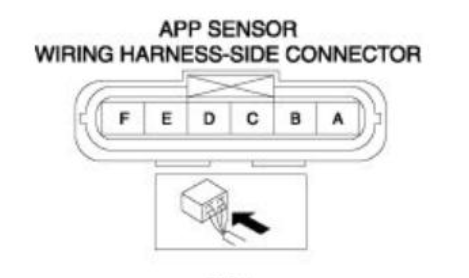
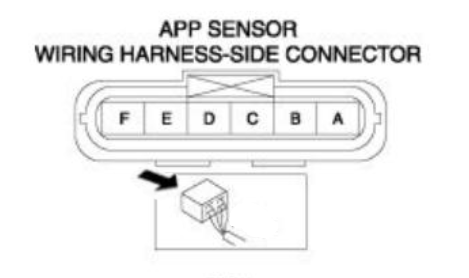
Add pins plug arrow; add gitignore

Changed region(s): [[0.4776, 0.7482, 0.597, 0.8633], [0.2985, 0.6043, 0.3881, 0.7194]]

diff --git a/docs/rx-8-pedal.md b/docs/rx-8-pedal.md
@@ -4,13 +4,15 @@
 
 ![pedal plug picture](./rx8-throttle-pedal-plug.png)
 
+Pins are numbered looking at the face of the plug.
+
 ## Plug pinout
 
-| pin number | wire color       | sensor    | function       |
-| ---------- | ---------------- | --------- | -------------- |
-| A          | white-red        | main      | sensor output  |
-| B          | gray             | main      | GND            |
-| C          | green-red        | main      | +5V            |
+| pin number | wire color       | sensor    | function      |
+| ---------- | ---------------- | --------- | ------------- |
+| A          | white-red        | main      | sensor output |
+| B          | gray             | main      | GND           |
+| C          | green-red        | main      | +5V           |
 | D          | red-white        | secondary | sensor output |
-| E          | lightgreen-black | secondary | GND            |
-| F          | red-yellow       | secondary | +5V            |
+| E          | lightgreen-black | secondary | GND           |
+| F          | red-yellow       | secondary | +5V           |
